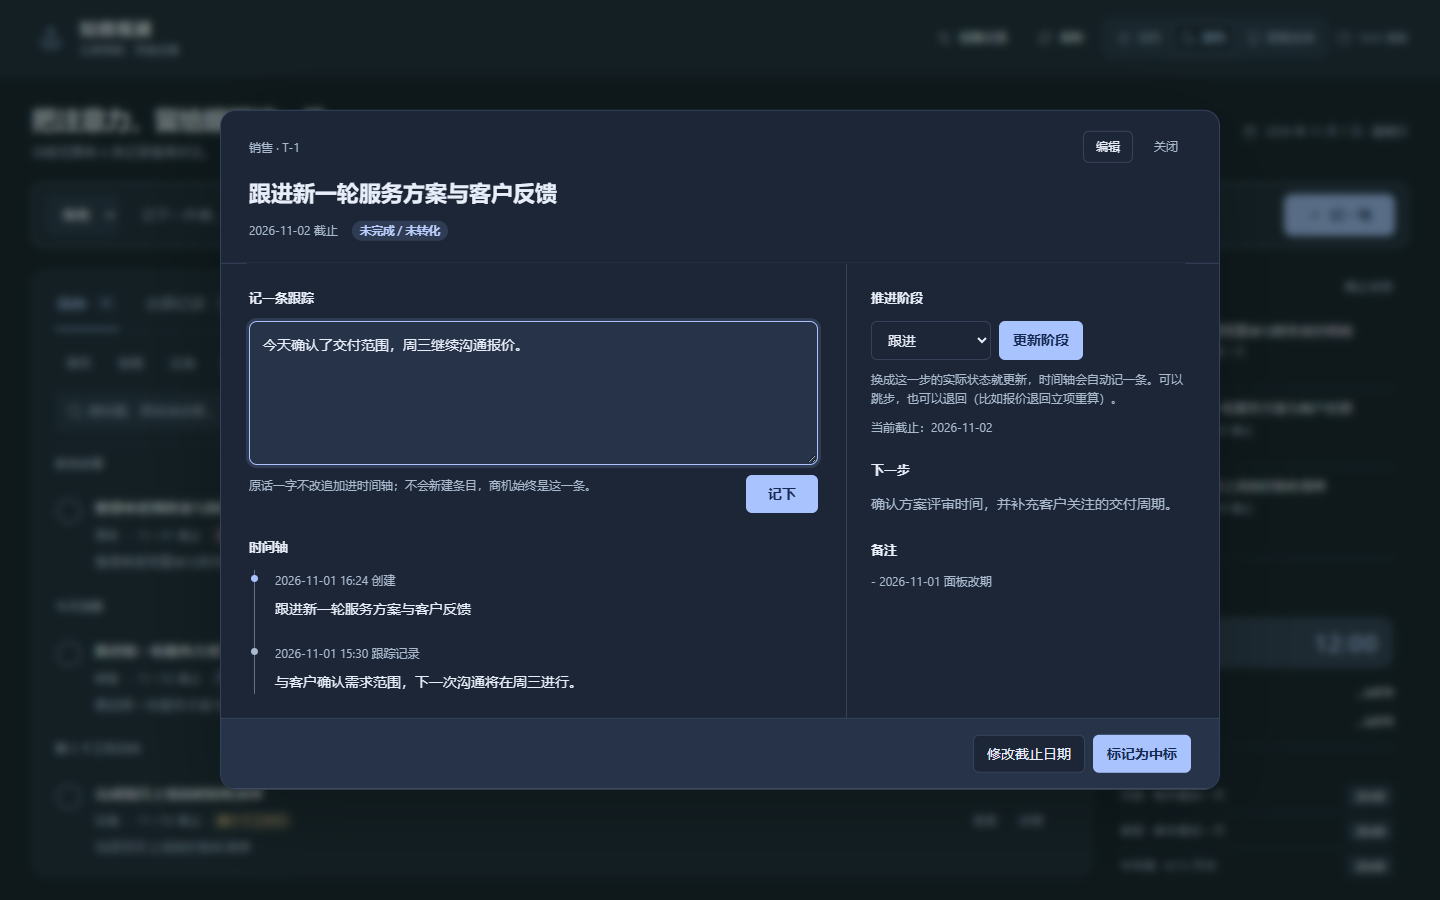
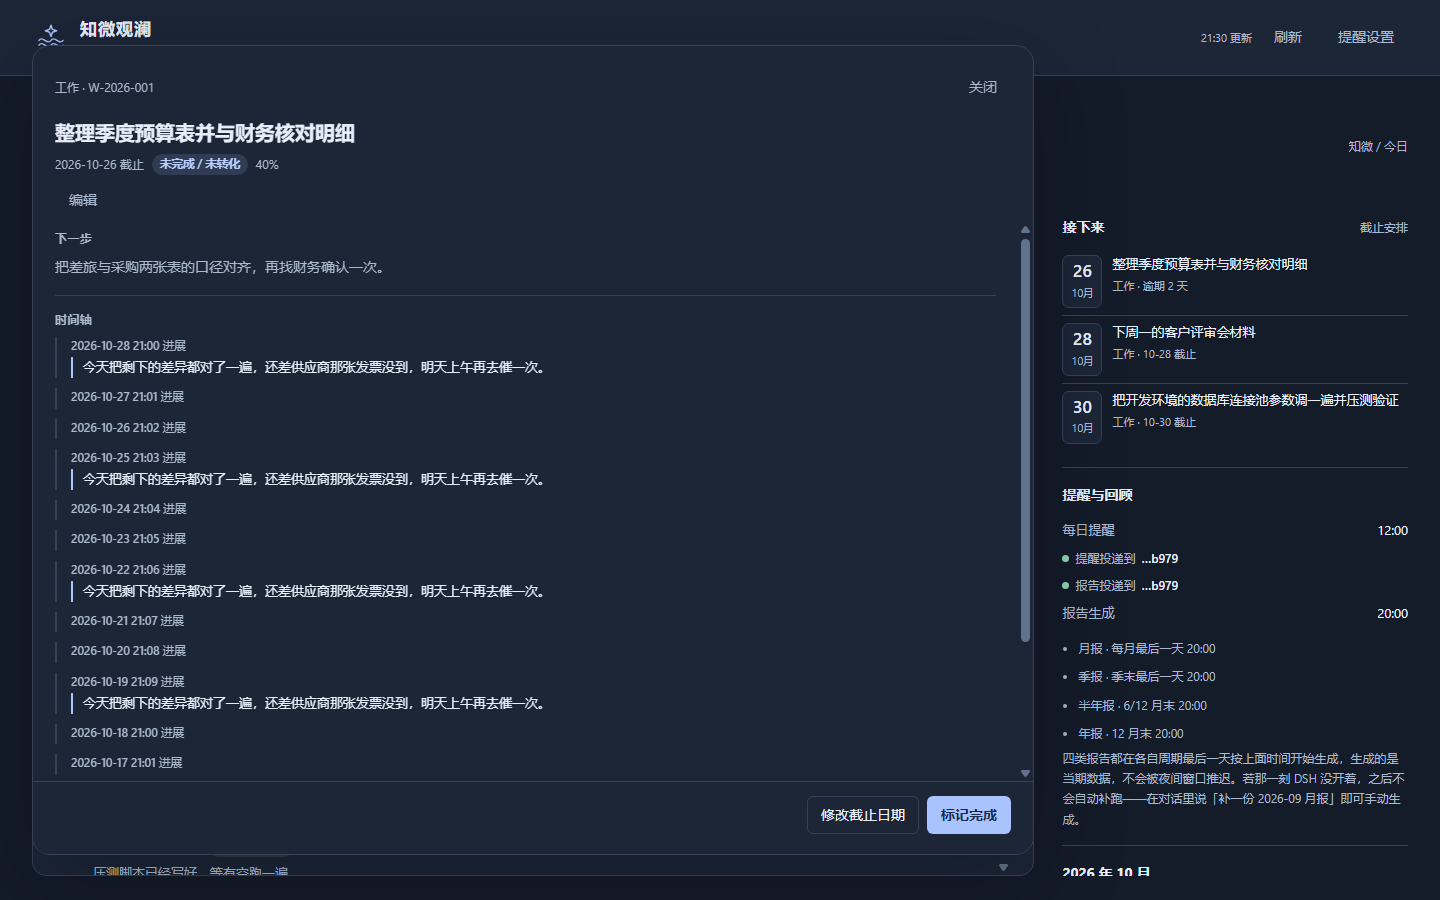
[前端] 修正验收页主题、图表色改令牌、截图全部更新
## 深色主题的验收页从来没生效过

client.js 的配色分两层：`.sct-root` 上是浅色默认值，
`.sct-root[data-theme="dark"]` 才是深色覆盖，真实组件由
`'data-theme': appearance.resolved` 切换。

而 render-harness.mjs 只往 `:root` 塞了一套变量，从没给容器打过
data-theme。后果是深色截图和浅色截图**逐字节相同**（同一 SHA256，
实测 6 组全部重复），可量测照样全过、没有任何一处报错——
"深色主题已验证"一直是假的。

改法是把属性直接写进生成的 HTML。不能靠 `<script>` 在
DOMContentLoaded 时设：contrast-check / shots 会往 `</body>` 前注入
采样脚本，两边抢时序，采到的仍是浅色（这一点也是实测出来的——
用脚本写法时对比度仍报 4 项失败，改成内联后 24 项全过）。

## 深色修好后才暴露的两个问题

1. `--zw-chart-blue/purple` 写死 hex（#58a6ff / #bc8cff），不随主题变，
   深色下柱子发糊，design-check 也判"令牌块外有 hex"。
   改为令牌，深色各给一套提亮值。

2. 完成控件的测试断言停在"24×24 圆形"，而 UI 早已改成 22×22 圆角方形，
   review-render 因此假失败。改成断言"20–24px 且长宽相等且有圆角"，
   守住"不被 padding 撑开"的真实意图，不绑死具体像素。

## 顺带修掉的测试与代码不同步

重构后一批测试的判据已和代码对不上，都不是代码 bug：

- design-check：`#58a6ff` / `#bc8cff` 硬编码 → 改令牌后通过
- check-wiring：工具条位置断言被 JSX 换行打败。这个判据迭代了 4 版
  （整行字符串 → 单行匹配 → 括号配平被字符串里的 `)` 带偏 →
  用已删除的 sct-list-scroll 当分界），最后一版按"锚点后 3000 字符内
  同时出现 filter 与 toolbar"判断，注释里记下了这四次教训
- review-tab-visibility：正则窗口 400 字符不够，放到 2000
- review-board-render：分析器只扫 renderBoard 体内，把 Panel 作用域里
  用 useState 声明的变量判成未定义（5 个假阳性）。补上外层作用域与
  数组解构参数的识别，守卫继续有效但不误报
- review-board-layout：断言 `@media (max-width:900px)`，但断点早已改为
  `@container`（跟容器走而非窗口），且看板用 boardOverview 同时考虑宽高。
  改判容器断点 + data-overview="false" 的单列规则，标签两列实际是三列
- review-ui-behavior T09：写死"应有两个页签"，实际已有 4 个（新增数据看板）
- review-ui-behavior T11：侧栏现在只在 customers 页渲染
  （`recordView` 覆盖 pending/all，board 显式排除），而测试在默认页找文案。
  改为切到客户台账页再断言，并给快照补上 customers 数据
[…]

diff --git a/client.js b/client.js
@@ -119,6 +119,11 @@ window.__ModuleLoader__.load({
   --zw-warn-soft:color-mix(in srgb,var(--dsw-alias-state-warn-primary) 13%,var(--dsw-alias-bg-layer-1));
   --zw-success:var(--dsw-alias-state-success-primary);
   --zw-focus:var(--dsw-alias-brand-primary);
+  /* 图表专用色：一张页里三张柱状图，同色会看串，所以各给一个。
+     它们也必须是令牌而不是散落 hex——写死 hex 在深色主题下不会跟着变，
+     而且会被 design-check 的"令牌块外无 hex"规则判失败。 */
+  --zw-chart-blue:#2f6fd0;
+  --zw-chart-purple:#7a4fd0;
   /* ---- 状态文字在柔和底色上的强化版本（6.2 对比度） ----
      柔和底色（*-soft）会抬高背景亮度，纯品牌/警告色压在其上达不到 4.5:1
      （浅色主题实测：今日到期 4.30、临期 3.97）。把状态色向**主文字色**混一档：
@@ -143,6 +148,9 @@ window.__ModuleLoader__.load({
   --dsw-alias-state-warn-primary:#e6c477;
   --dsw-alias-state-success-primary:#8ed5b1;
   --zw-accent-text:#172b52;
+  /* 图表色在深色底上要提亮，否则柱子在暗背景里发糊 */
+  --zw-chart-blue:#6ea8ff;
+  --zw-chart-purple:#b18cff;
 }
 `;
 
@@ -333,9 +341,9 @@ window.__ModuleLoader__.load({
 .sct-cbar-track{width:100%;flex:1 1 auto;min-height:0;display:flex;align-items:flex-end;justify-content:center}
 .sct-cbar-fill{width:min(100%,22px);border-radius:3px 3px 0 0;background:var(--zw-accent)}
 /* 三张图各用一个颜色，方便区分（同一页里三张柱状图，同色会看串） */
-.sct-cbar-blue{background:#58a6ff}
+.sct-cbar-blue{background:var(--zw-chart-blue)}
 .sct-cbar-green{background:var(--zw-success)}
-.sct-cbar-purple{background:#bc8cff}
+.sct-cbar-purple{background:var(--zw-chart-purple)}
 /* 窗口外的月份：留形状不留势，且不标数值 */
 .sct-cbar-fill.is-muted{background:var(--zw-line-strong);opacity:.5}
 .sct-cbar-label{font-size:9.5px;color:var(--zw-muted);white-space:nowrap;overflow:hidden;text-overflow:ellipsis;max-width:100%;flex:none;height:12px;display:flex;align-items:flex-end}

diff --git a/README.md b/README.md
@@ -97,8 +97,8 @@
 
 ![记一条跟踪](docs/images/detail-dark.png)
 
-商机不必新建条目来记"今天又聊了什么"。阶段变了拉一下"推进阶段"，
-时间轴会自动留一条；想说明原因就写在上面，原话一字不改地存进去。
+图上每一条都是**原话**，按时间倒序排着。商机不必新建条目来记"今天又聊了什么"——
+阶段变了拉一下阶段下拉，时间轴会自动留一条；想说明原因就写在上面。
 
 ### 被提醒
 
@@ -153,11 +153,13 @@
 
 ### 数据看板
 
+![数据看板](docs/images/board-month.png)
+
 面板顶部切到「数据看板」，是跨域的全局视角：按时间窗口看各项工作、资金的进来与出去、
 以及各域的工作量与完成率。
 
 图表用真实的计算数据绘制，**数字与报告同源**——不是另算一套。
-支持自定义周期，也可以按金额或数量切换口径。
+时间范围可选本月/本季/自定义，销售阶段与成交结果支持按数量或按金额切换口径。
 
 ### 面板
 

diff --git a/docs/开发.md b/docs/开发.md
@@ -238,6 +238,21 @@ curl http://127.0.0.1:<端口>/dsh-secretary/api/health
 
 ---
 
+## 品牌与图标
+
+![图标](images/icon-preview.png)
+
+`icon.svg` 是 24×24 线性图标：一张记录页承载原话与进展，向右上方伸出的勾表示推进与完成。
+`currentColor` 描边，`color` 属性给了默认色，深浅两主题下都能读。
+
+要改图标时注意三点：
+
+1. **尺寸要小**。16px 下仍要认得出，别在勾上做过细的分叉。
+2. **单色**。靠 `currentColor` 吃主题色，不要写死颜色——写死就只有一个主题能用。
+3. **改完看深浅两版**。上面这张预览图就是按 16/20/24/32 四种尺寸、深浅两套底色给的验收。
+
+---
+
 ## 发布注意
 
 `package.json` 的 `files` 白名单决定发布内容。`lib` 是**目录**不是文件，漏了它插件会在安装后崩掉。
